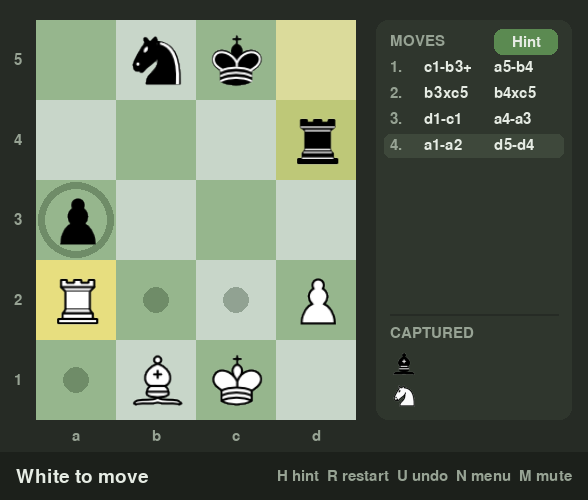
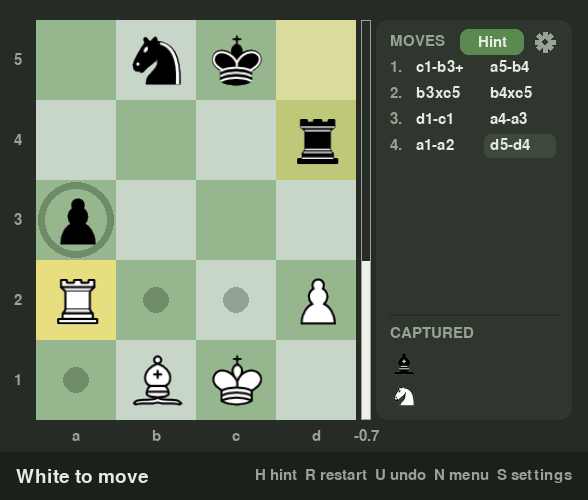
Update the screenshot
It now shows the evaluation bar and the settings button.

Changed region(s): [[0.7041, 0.06, 0.949, 0.3], [0.6122, 0.03, 0.6429, 0.9], [0.4286, 0.93, 0.9796, 0.96]]

diff --git a/README.md b/README.md
@@ -1,6 +1,6 @@
 # Micro Chess
 
-![Micro Chess: a game in progress against the computer, with the move list and captured pieces on the right](docs/screenshot.png)
+![Micro Chess: a game in progress against the computer, with the evaluation bar beside the board and the move list and captured pieces on the right](docs/screenshot.png)
 
 Chess on a 4×5 board, with a pygame interface and a computer opponent.
 
